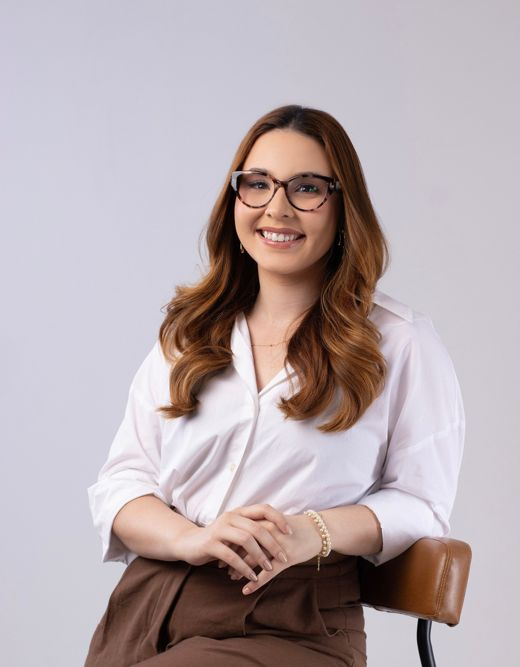
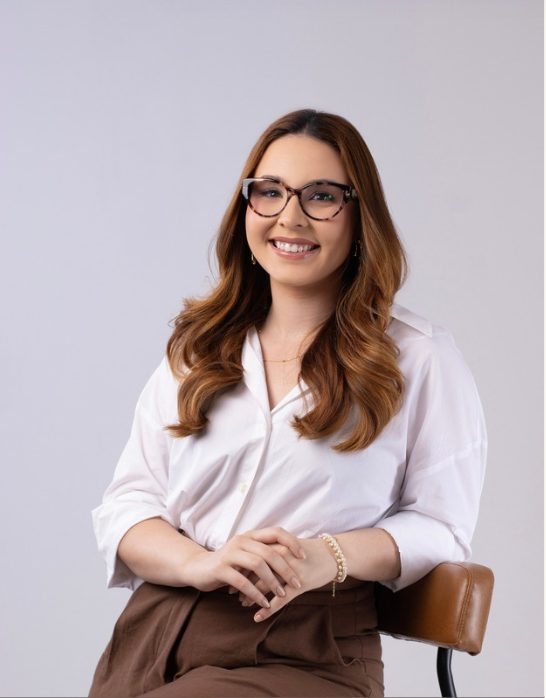
Corrige foto da Letícia nos links /p/ (caminho absoluto) e atualiza a imagem
Claude-Session: https://claude.ai/code/session_01MG6BGwJsSgQKff7ry6XvaT

diff --git a/js/content.js b/js/content.js
@@ -42,7 +42,7 @@ window.SEGANTINI = {
       nome: "Letícia Segantini",
       cargo: "Fundadora e CEO",
       bio: "Especialista em Psicologia Organizacional e Gestão de Pessoas (PUC/RS). Mentorada pela G4 Educação e Cultura na Prática.",
-      foto: "assets/leticia-segantini.jpg",
+      foto: "/assets/leticia-segantini.jpg",
     },
     pilares: [
       { icone: "users", titulo: "Psicólogas organizacionais", texto: "Psicologia aplicada ao dia a dia." },
